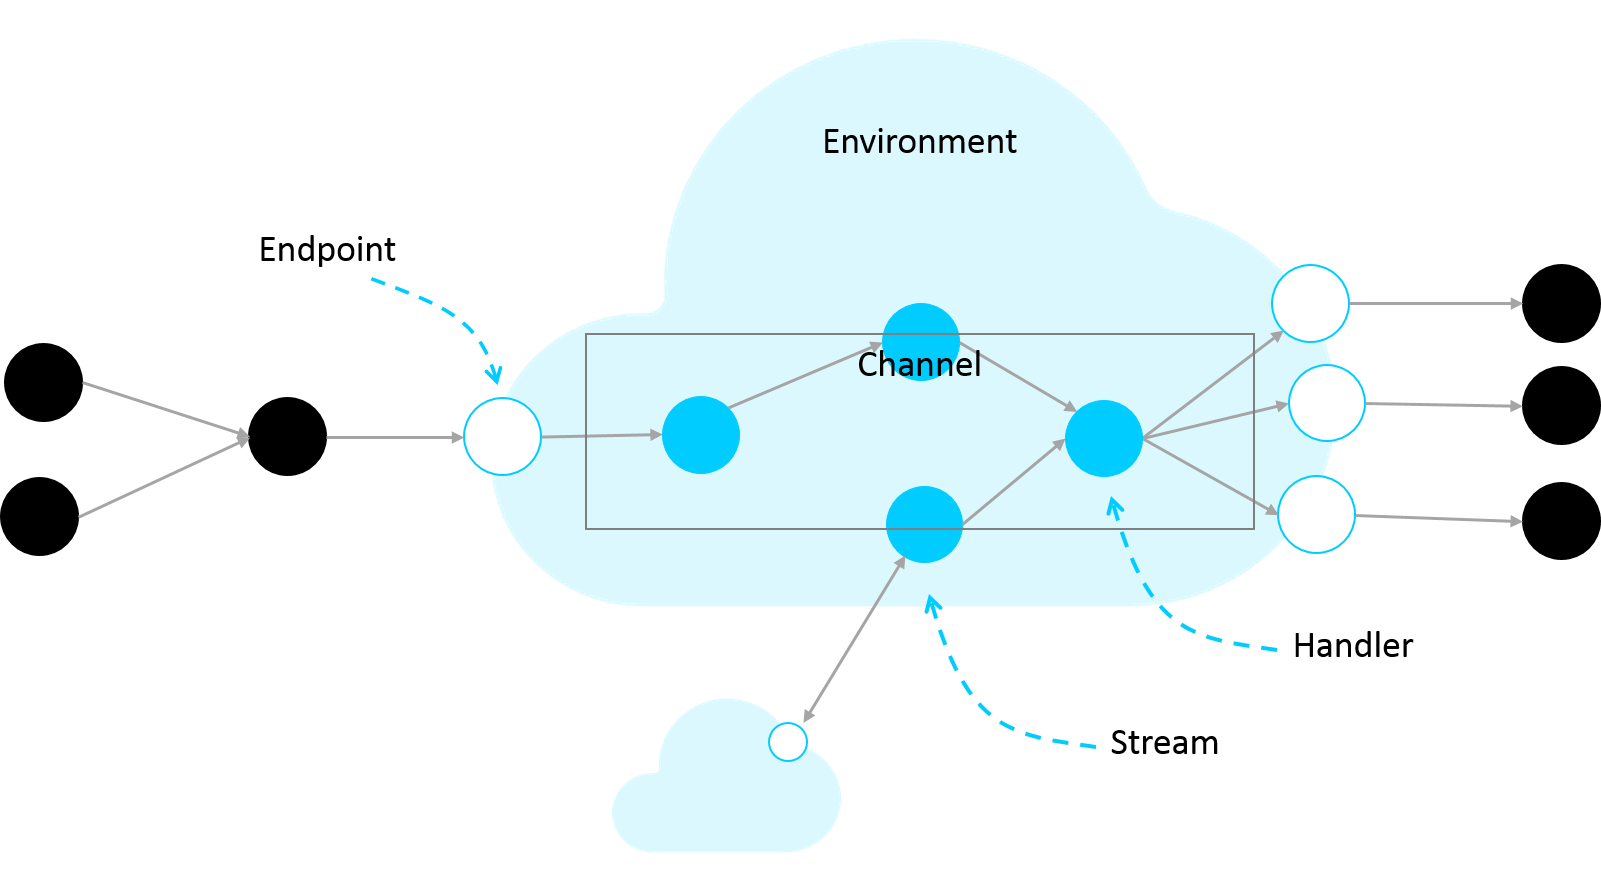
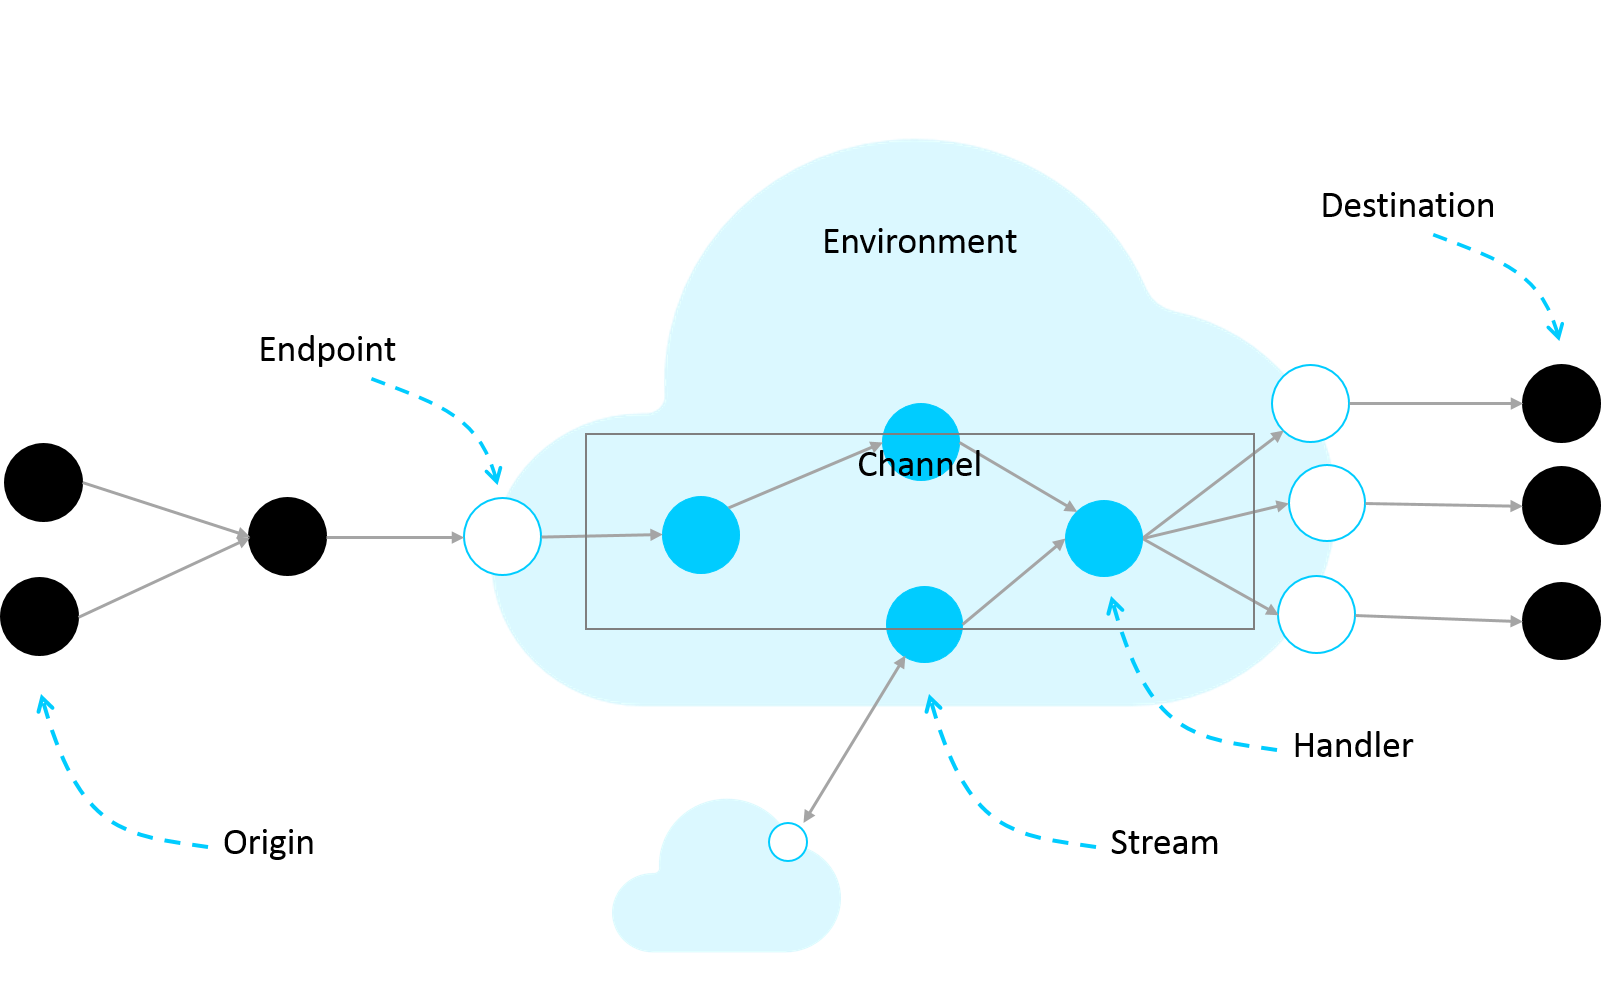
completely redone architecture entry page

diff --git a/architecture.md b/architecture.md
@@ -2,52 +2,45 @@
 
 The internet of things, business process automation, service orientation, microservices, mobile, cloud computing, and many other buzz words from both the past and present, are all variations on the same theme: Distributed software architectures.
 
-From a very high level, one can look at distributed software architectures as 'dots' of independent software components, that communicate with each other using various messaging patterns, very similar to the way humans communicate amongst themselves. This is obviously an extreme simplification, that hides all the complexity involved in distributed computing, but it's a great starting point nevertheless.
+From a very high level, one can look at distributed software architectures as 'dots' of independent software components, that communicate with each other using various messaging patterns, very similar to the way humans communicate amongst themselves. This is obviously an extreme simplification, that hides all the complexity involved in distributed computing, but it's a great starting point for this conversation nevertheless.
 
 ![MesssageHandler](/documentation/images/architecture.png)
 
 ## Core concepts
 
-MessageHandler is not trying to be the one size fits all messaging solution, we are solely focussed on getting those components right that logically belong in the cloud. Typically this involves 3 kinds of components:
+All of these software components perform a very specific role in the overall system, but because they are independent of each other the system can continue to operate even if some of the components are temporarily unavailable. Some typical component types that you will find in a distributed messaging system are:
 
-* **Handlers**: Perform processing logic on messages
-* **Endpoints**: Secured gates to which external dots can push messages
-* **Stream**: Pulls messages from endpoints of other systems, and pushes them into our system
+* Software that initiates a message exchange, like sensors, websites, or mobile interfaces. In our nomenclature we call these **origins**
+* Components that perform processing logic (think encryption, filtering, calculations etc...) on the data while it is passing by, we call these components **handlers**.
+* Secured gates to which external components can push their data, or receive information from in a secure way, over a distance, we call these **endpoints**.
+* Sometimes logic needs to pull information in from endpoints in other systems so that you can process it in your logic, we call these **streams**.
+* And ultimately the result of all this processing logic needs to end up somewhere, at a certain **destination**, this destination could be a database, an external system, a human or even a robot.
 
 ![MesssageHandler](/documentation/images/architecture-concepts.png)
 
-Next to 3 different types of hosted software components, we also have a few grouping mechanisms
+Even though the software components in such systems are typically independent of each other, in order to fulfill specific business use cases, they need to be tied together. You need to be able to control how the data flows, which component is interested in the output of which other component. You need to be able to apply configuration settings to everything so that components, and the whole, starts behaving in a well defined way. We call this collective a **channel**.
 
-* **Channels**: Groups handlers and streams, that collectively solve a specific issue, as a unit, at design time.
-* **Account**: Groups everything that you and your team owns, at design time.
-* **Environments**: Groups handlers and streams by the location they are hosted in, at runtime. Can be private, limited to an account.
+Once a channel has been composed, it needs to be put into operation. In order to do so, we deploy all of it's parts to a given **environment**. An environment is a bunch of machines hosted somewhere on the planet. All of our environments are powered by Windows Azure, which means you can put your logic on any continent, close to your customers. We will take care of managing those environments and keeping them up to date.
 
-MessageHandler has been specifically designed to bridge the technical gap between corporate internet of things implementations and the rest of the business ecosystem. So let's have a look at how our core concepts fit into these 2 scenarios.
+## On the internet of things
 
-## Internet of things
+MessageHandler provides you all the tools to build, sell, run and operate all kinds of message processing logic. But what makes it special is that it has been specifically designed for the 'internet of things' as well. It is in fact the ideal place to bridge the gap between corporate internet of things implementations and the rest of a business ecosystem. 
 
-Typical corporate internet of things scenarios involve hundreds, thousands or even more sensors and actuators deployed across geographically dispersed areas. These sensors collect a lot of information about their environment. This information is extremely valuable for both the owning organization as it's partner ecosystem. 
+What is so special about 'internet of things' scenarios, is the huge amount of information that is being generated. Typical corporate 'internet of things' scenarios involve thousands and more sensors and actuators deployed across geographically dispersed areas. Each sensor collects some information about it's environment and collectively this information is extremely valuable for both the owning organization as it's partner ecosystem. 
+
+And the more real time this information is the more valuable it becomes, often resulting in the desire to process millions of messages per second. But you don't have to worry about that, we can handle it. In contrast to many of our competitors (who are usually taking a pure request-reply based approach by stacking API calls) we can easily scale out to very large amounts of messages processed per second. *A little anecdote: even 'at rest' our system processes over 10.000 messages per second on a single machine, just because we can!*
+
+Now lets have a look at what such a scenario often translates into in terms of our concepts.
 
 ![MesssageHandler](/documentation/images/architecture-iot.png)
 
-For security reasons these devices are rarely directly attached to the rest of the world, but make use of local field gateways to aggregate and secure the information stream before sending it over to the cloud for further processing. So on our end, we typically provision an endpoint per local field gateway instance, not per sensor. 
+For security reasons sensors are rarely directly attached to the internet, but make use of local field gateways to aggregate and secure the information stream before sending it over to the cloud for further processing. The reason for this is that most of those devices have very limited memory and cpu resources, as they want to run on batteries, and this prevents them from securing or encrypting their data. It is the role of the field gateway to make the local system secure. So on our end, we typically provision a secured endpoint per local field gateway instance, and not per sensor.
 
-This approach however leads to data of many sensors, being concentrated on a relatively low amount of connections. But you don't have to worry about that, in contrast to many of our competitors we can easily handle very large volumes of messages per second. *(A little anecdote: even 'at rest' our system processes over 10.000 messages per second on a single node)*
-
-The endpoint directs the stream of messages to one or more channels, potentially hosted in different environments, for processing. Processing is done by handlers that typically perform one of the following tasks
+The endpoint directs the stream of messages coming from the field gateway to one or more channels, potentially hosted in different environments, for processing. Processing is done by handlers that typically perform one of the following tasks
 
 * Reduce the message stream so that only relevant information for the use case at hand needs to be taken into account.
 * Store the information in the message stream, for later historical analyses using big data technology.
 * Perform aggregations on the message stream as humans can't interpret millions of data points per second.
-* Detect anomalies and boundary checks at real time.
+* Detect anomalies and boundary checks at real time, as that is what humans really care about.
 * Notify the relevant people or partner organisations in case some of these boundaries are exceeded.
 
-## Business processes
-
-Most organizations have well established, and automated, internal business processes. But in today's global economy, most business processes do not end at the organizational boundary any more, they extend into the business ecosystem and are often co-owned by multiple parties. MessageHandler is perfectly positioned for this type of use case, as it is neutral ground for all parties involved and messaging concepts overcomes many of the challenges posed by integrating different parties.
-
-Let's have a look at a simple example that shows a B2B e-commerce scenario, where you want the system to validate the order in various ways, maybe leverage an external SAAS system to perform fraud detection, before you accept the order. Once the order has been validated and accepted, you ship the product, send an installation work order to your preferred installation partner and schedule a follow-up contact moment at an outsourced call center. 
-
-![MesssageHandler](/documentation/images/architecture-business.png)
-
-What is extremely important in this scenario is guaranteed delivery. Our infrastructure guarantees at least-once-delivery semantics.
